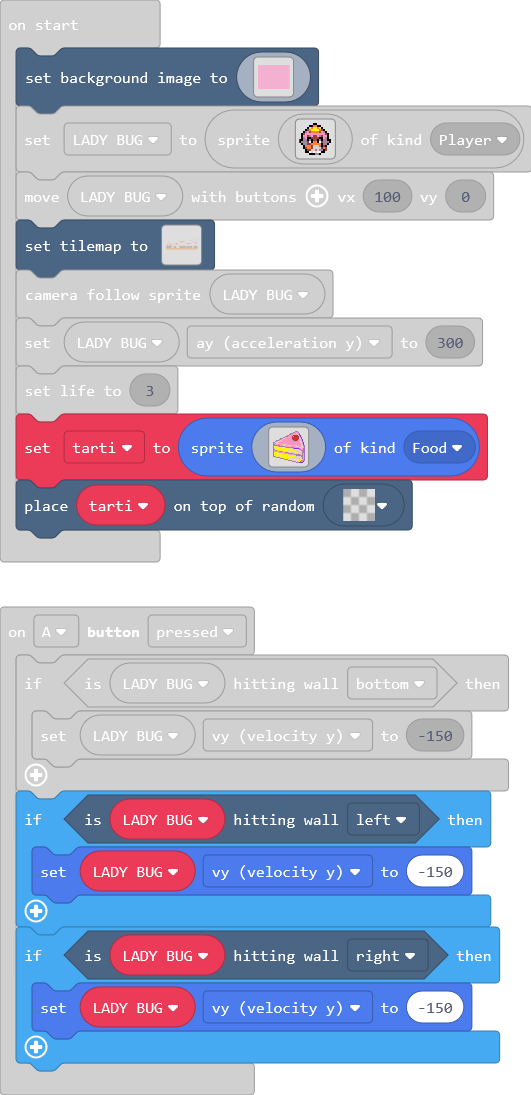
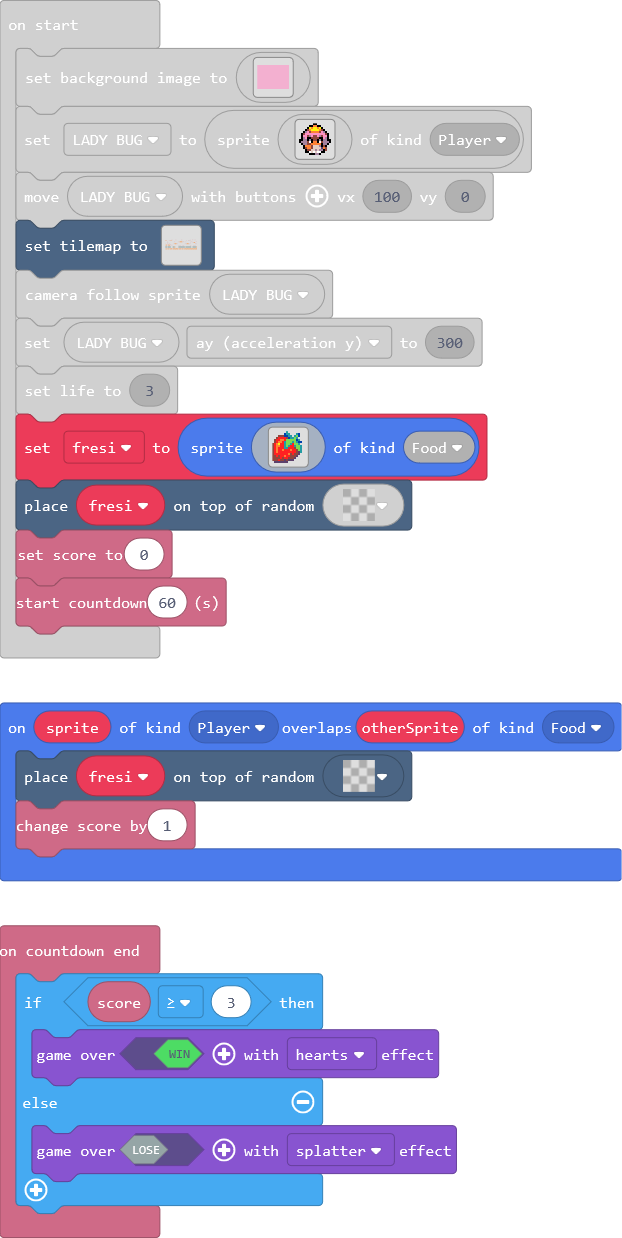
Update main.blocks, main.ts

diff --git a/main.ts b/main.ts
@@ -39,6 +39,10 @@ controller.left.onEvent(ControllerButtonEvent.Pressed, function () {
 . . . f f f b b f f f . . . . . 
 `)
 })
+sprites.onOverlap(SpriteKind.Player, SpriteKind.Food, function (sprite, otherSprite) {
+    tiles.placeOnRandomTile(fresi, myTiles.tile0)
+    info.changeScoreBy(1)
+})
 controller.A.onEvent(ControllerButtonEvent.Pressed, function () {
     if (LADY_BUG.isHittingTile(CollisionDirection.Bottom)) {
         LADY_BUG.vy = -150
@@ -70,6 +74,14 @@ controller.right.onEvent(ControllerButtonEvent.Pressed, function () {
 . . . . . f f f b b f f f . . . 
 `)
 })
+info.onCountdownEnd(function () {
+    if (info.score() >= 3) {
+        game.over(true)
+    } else {
+        game.over(false)
+    }
+})
+let fresi: Sprite = null
 let LADY_BUG: Sprite = null
 scene.setBackgroundImage(img`
 3 3 3 3 3 3 3 3 3 3 3 3 3 3 3 3 3 3 3 3 3 3 3 3 3 3 3 3 3 3 3 3 3 3 3 3 3 3 3 3 3 3 3 3 3 3 3 3 3 3 3 3 3 3 3 3 3 3 3 3 3 3 3 3 3 3 3 3 3 3 3 3 3 3 3 3 3 3 3 3 3 3 3 3 3 3 3 3 3 3 3 3 3 3 3 3 3 3 3 3 3 3 3 3 3 3 3 3 3 3 3 3 3 3 3 3 3 3 3 3 3 3 3 3 3 3 3 3 3 3 3 3 3 3 3 3 3 3 3 3 3 3 3 3 3 3 3 3 3 3 3 3 3 3 3 3 3 3 3 3 
@@ -213,13 +225,13 @@ f b b b e 1 f 4 4 f 1 e b b b f
 `, SpriteKind.Player)
 controller.moveSprite(LADY_BUG, 100, 0)
 tiles.setTilemap(tiles.createTilemap(
[2 lines of base64/hex data omitted]
             img`
 . . . . . . . . . . . . . . . . . . . . . . . . . . . . . . . . . . . . . . . . . . . 2 . . . . . . 
-. . . . . . . . . . . . . . . . . . . . . . . . . . . . . . . . . . . . . . . . . . . 2 . . 2 2 . . 
-. . . . . . . . . . . . . . . . . . . . . . . . . . . . . . . . . . . . 2 2 2 2 . . . . . . . . . . 
+. . . . . . . . . . 2 2 . . . . 2 2 . . . . . . . 2 2 . . . . . . . . . . . . 2 . . . 2 . . 2 2 . . 
+2 . 2 . . . 2 2 2 . . . . . . . . . . . . . . . . . . . . . . . . 2 . . 2 2 2 2 . . . . . . . . . . 
 . . . . . . . . . . . . . . . . . . . . . . . . . . . . . 2 . . . . . . . . . . . 2 . . . . . . 2 2 
-. . . 2 . . . . . . . . . . . . . . . . 2 2 2 . . . . 2 2 2 . . . . . . . . . . 2 . . 2 . . . . . . 
+. . . 2 . . . . . . . . . . 2 2 . . . . 2 2 2 . . . . 2 2 2 . . 2 . . . . . . . 2 . . 2 . . . . . . 
 . . . 2 2 . . . . . . . . . . . . . . . . . . . . . . . . . . . . . . . . . . 2 . . . 2 2 . . . . . 
 . . . . 2 . 2 2 . . . . . . . . . . . . . . . . . . . . . . . . . . . . . . . . . . . . . . . 2 . . 
 2 . . . 2 . . . . . . . . 2 2 . . . 2 2 . . . . . . . . . . . 2 2 2 . . . 2 2 2 . . . . . . . 2 2 2 
@@ -227,10 +239,10 @@ tiles.setTilemap(tiles.createTilemap(
 2 . . 2 2 . . . 2 2 2 2 . . . . . . . . . . . . . . . . . . . . . . . . . . . . . . . . . . . . . . 
 . . . . . . . . . . . . . . . . . . . . . 2 2 2 2 . . 2 2 2 . . . . . . . . . 2 2 . . . 2 2 2 2 . . 
 . . . . . . . . . . . . . . . . . . . . . . . . . . . . . . . . . . . . . . . . . . . . . . . . . . 
-2 2 2 2 2 2 2 2 2 . . . 2 2 2 2 . . . . . 2 2 2 2 2 2 2 2 2 2 . 2 2 2 2 2 2 2 2 2 . . 2 2 2 2 2 2 2 
+2 2 2 . 2 2 2 2 2 . . . 2 2 . 2 . . . . . 2 2 2 2 2 2 2 2 2 2 . 2 2 2 2 2 2 2 2 2 . . 2 2 2 2 2 2 . 
 . . . . . . . . . . . . . . . . . . . . . . . . . . . . . . . . . . . . . . . . . . . . . . . . . . 
-. . . . . . . . . . . . . . . . . . . . . . . . . . . . . . . . . . . . . . . . . . . . . . . . . . 
-. . . . . . . . . . . . . . . . . . . . . . . . . . . . . . . . . . . . . . . . . . . . . . . . . . 
+. . . . . . . . . . 2 . . . . . . 2 2 . . . . . . . . . . . . . . . . . . . . . . . . . . . . . . . 
+. 2 . . 2 . . 2 . . . 2 . . . . . . . . . 2 . . . 2 . . . 2 . . . . . . . . . . . . . . . . . . . . 
 `,
             [myTiles.tile0,sprites.castle.tilePath2,sprites.castle.tileGrass2,sprites.builtin.forestTiles0,sprites.dungeon.hazardLava0,sprites.builtin.brick,sprites.dungeon.hazardLava1,sprites.dungeon.hazardHole,sprites.dungeon.hazardWater,sprites.dungeon.stairWest,sprites.builtin.crowd2,sprites.builtin.crowd9,sprites.dungeon.stairSouth,sprites.dungeon.floorLight1,sprites.dungeon.floorLight0,sprites.dungeon.doorLockedSouth],
             TileScale.Sixteen
@@ -238,41 +250,27 @@ tiles.setTilemap(tiles.createTilemap(
 scene.cameraFollowSprite(LADY_BUG)
 LADY_BUG.ay = 300
 info.setLife(3)
-let tarti = sprites.create(img`
-. . . . . . . . . . . . . . . . . . . . . . b b b . . . . . . . 
-. . . . . . . . . . . . . . . . . . . . b b 3 3 3 b . . . . . . 
-. . . . . . . . . . . . . . . . . b b b 3 3 3 d 3 3 b . . . . . 
-. . . . . . . . . . . . . . . . b b 3 3 3 3 3 3 d 3 a . . . . . 
-. . . . . . . . . . . . . . b b 3 3 3 3 2 e e e e d b a . . . . 
-. . . . . . . . . . . . b b b 3 3 3 3 2 3 e e e 2 e 3 a . . . . 
-. . . . . . . . . . b b d 3 3 3 3 3 3 e 2 2 2 2 2 e d 3 a . . . 
-. . . . . . . b b b d d 3 3 3 3 3 3 3 e 2 2 2 2 2 e d d a . . . 
-. . . . . . b b 3 d 3 3 3 3 3 3 3 3 3 b e 2 2 2 e b 3 d 3 a . . 
-. . . b b b 3 d d 3 3 3 3 3 3 3 3 3 3 3 b e e e b 3 3 d 3 a . . 
-. . b 3 d d d 3 3 3 3 3 3 3 3 3 3 3 3 3 3 3 3 3 3 3 3 d d a . . 
-b b d d d 3 3 3 3 3 3 3 3 3 3 3 3 3 3 3 3 3 3 3 3 3 3 d d 3 a . 
-b 3 3 d d d d d d 3 3 3 3 3 3 3 3 3 3 3 3 3 3 3 3 3 3 3 d 3 a . 
-b b 3 3 3 3 3 3 3 d d d d d 3 3 3 3 3 3 3 3 3 3 3 3 3 3 d d a . 
-b b b b b b b 3 3 3 d d 3 3 d d d d d d d d d d 3 3 3 3 d d b a 
-b 5 5 5 5 3 b b b b b b 3 3 3 3 d d 3 3 3 3 3 d d d 3 3 d d 3 a 
-b 5 5 5 5 5 5 5 5 5 5 5 3 b b b b b b b b 3 3 3 3 3 d d d d 3 a 
-b d 5 5 5 5 5 5 5 5 5 5 5 5 5 5 5 d d d b a a a a a b 3 d 3 b a 
-b b 5 5 5 5 5 5 5 5 5 5 5 5 5 5 5 5 5 d d d d d d d b b 3 3 b a 
-b 3 b b 3 5 5 5 5 5 5 5 5 5 5 d 5 5 5 5 d 5 5 d d d d d b b b a 
-b 3 3 3 3 3 b b b 3 5 5 d d 5 5 5 5 5 d 5 5 5 d d d d d d b b a 
-b 5 5 5 5 d 3 3 3 3 3 3 b b b 3 5 d d d d d d 5 5 d d d d b b a 
-b 5 d 5 5 5 d d 5 5 5 3 3 3 3 b b b b b 3 d d d d d d d d b 3 a 
-b 5 d 5 5 5 5 5 5 5 5 5 5 5 5 d d 3 3 3 3 b b b b b b 3 d b 3 a 
-b d 5 d 5 5 5 5 5 5 d 5 5 5 5 5 d d 5 5 5 d d b b b b b b b 3 a 
-b b b 5 5 d d 5 5 5 5 5 5 5 5 5 5 5 5 5 5 5 d d d d d d b b 3 a 
-. . . b b b b d d 5 5 5 d d d 5 5 5 5 d d d d d d d d d d b 3 a 
-. . . . . . . b b b b 5 5 5 5 5 5 d 5 d d d 5 d d d d d d b 3 a 
-. . . . . . . . . . . b b b b 5 5 5 5 5 5 5 5 5 5 5 d d 5 3 3 a 
-. . . . . . . . . . . . . . . b b b b d d d 5 d 5 5 d 5 b 3 b a 
-. . . . . . . . . . . . . . . . . . . b b b b d d d d b 3 b a . 
-. . . . . . . . . . . . . . . . . . . . . . . b b b a a a a . . 
+fresi = sprites.create(img`
+. . . . . . . 6 . . . . . . . . 
+. . . . . . 8 6 6 . . . 6 8 . . 
+. . . e e e 8 8 6 6 . 6 7 8 . . 
+. . e 2 2 2 2 e 8 6 6 7 6 . . . 
+. e 2 2 4 4 2 7 7 7 7 7 8 6 . . 
+. e 2 4 4 2 6 7 7 7 6 7 6 8 8 . 
+e 2 4 5 2 2 6 7 7 6 2 7 7 6 . . 
+e 2 4 4 2 2 6 7 6 2 2 6 7 7 6 . 
+e 2 4 2 2 2 6 6 2 2 2 e 7 7 6 . 
+e 2 4 2 2 4 2 2 2 4 2 2 e 7 6 . 
+e 2 4 2 2 2 2 2 2 2 2 2 e c 6 . 
+e 2 2 2 2 2 2 2 4 e 2 e e c . . 
+e e 2 e 2 2 4 2 2 e e e c . . . 
+e e e e 2 e 2 2 e e e c . . . . 
+e e e 2 e e c e c c c . . . . . 
+. c c c c c c c . . . . . . . . 
 `, SpriteKind.Food)
-tiles.placeOnRandomTile(tarti, myTiles.tile0)
+tiles.placeOnRandomTile(fresi, myTiles.tile0)
+info.setScore(0)
+info.startCountdown(60)
 game.onUpdate(function () {
     if (LADY_BUG.tileKindAt(TileDirection.Bottom, sprites.dungeon.hazardLava1)) {
         LADY_BUG.setPosition(10, 0)
